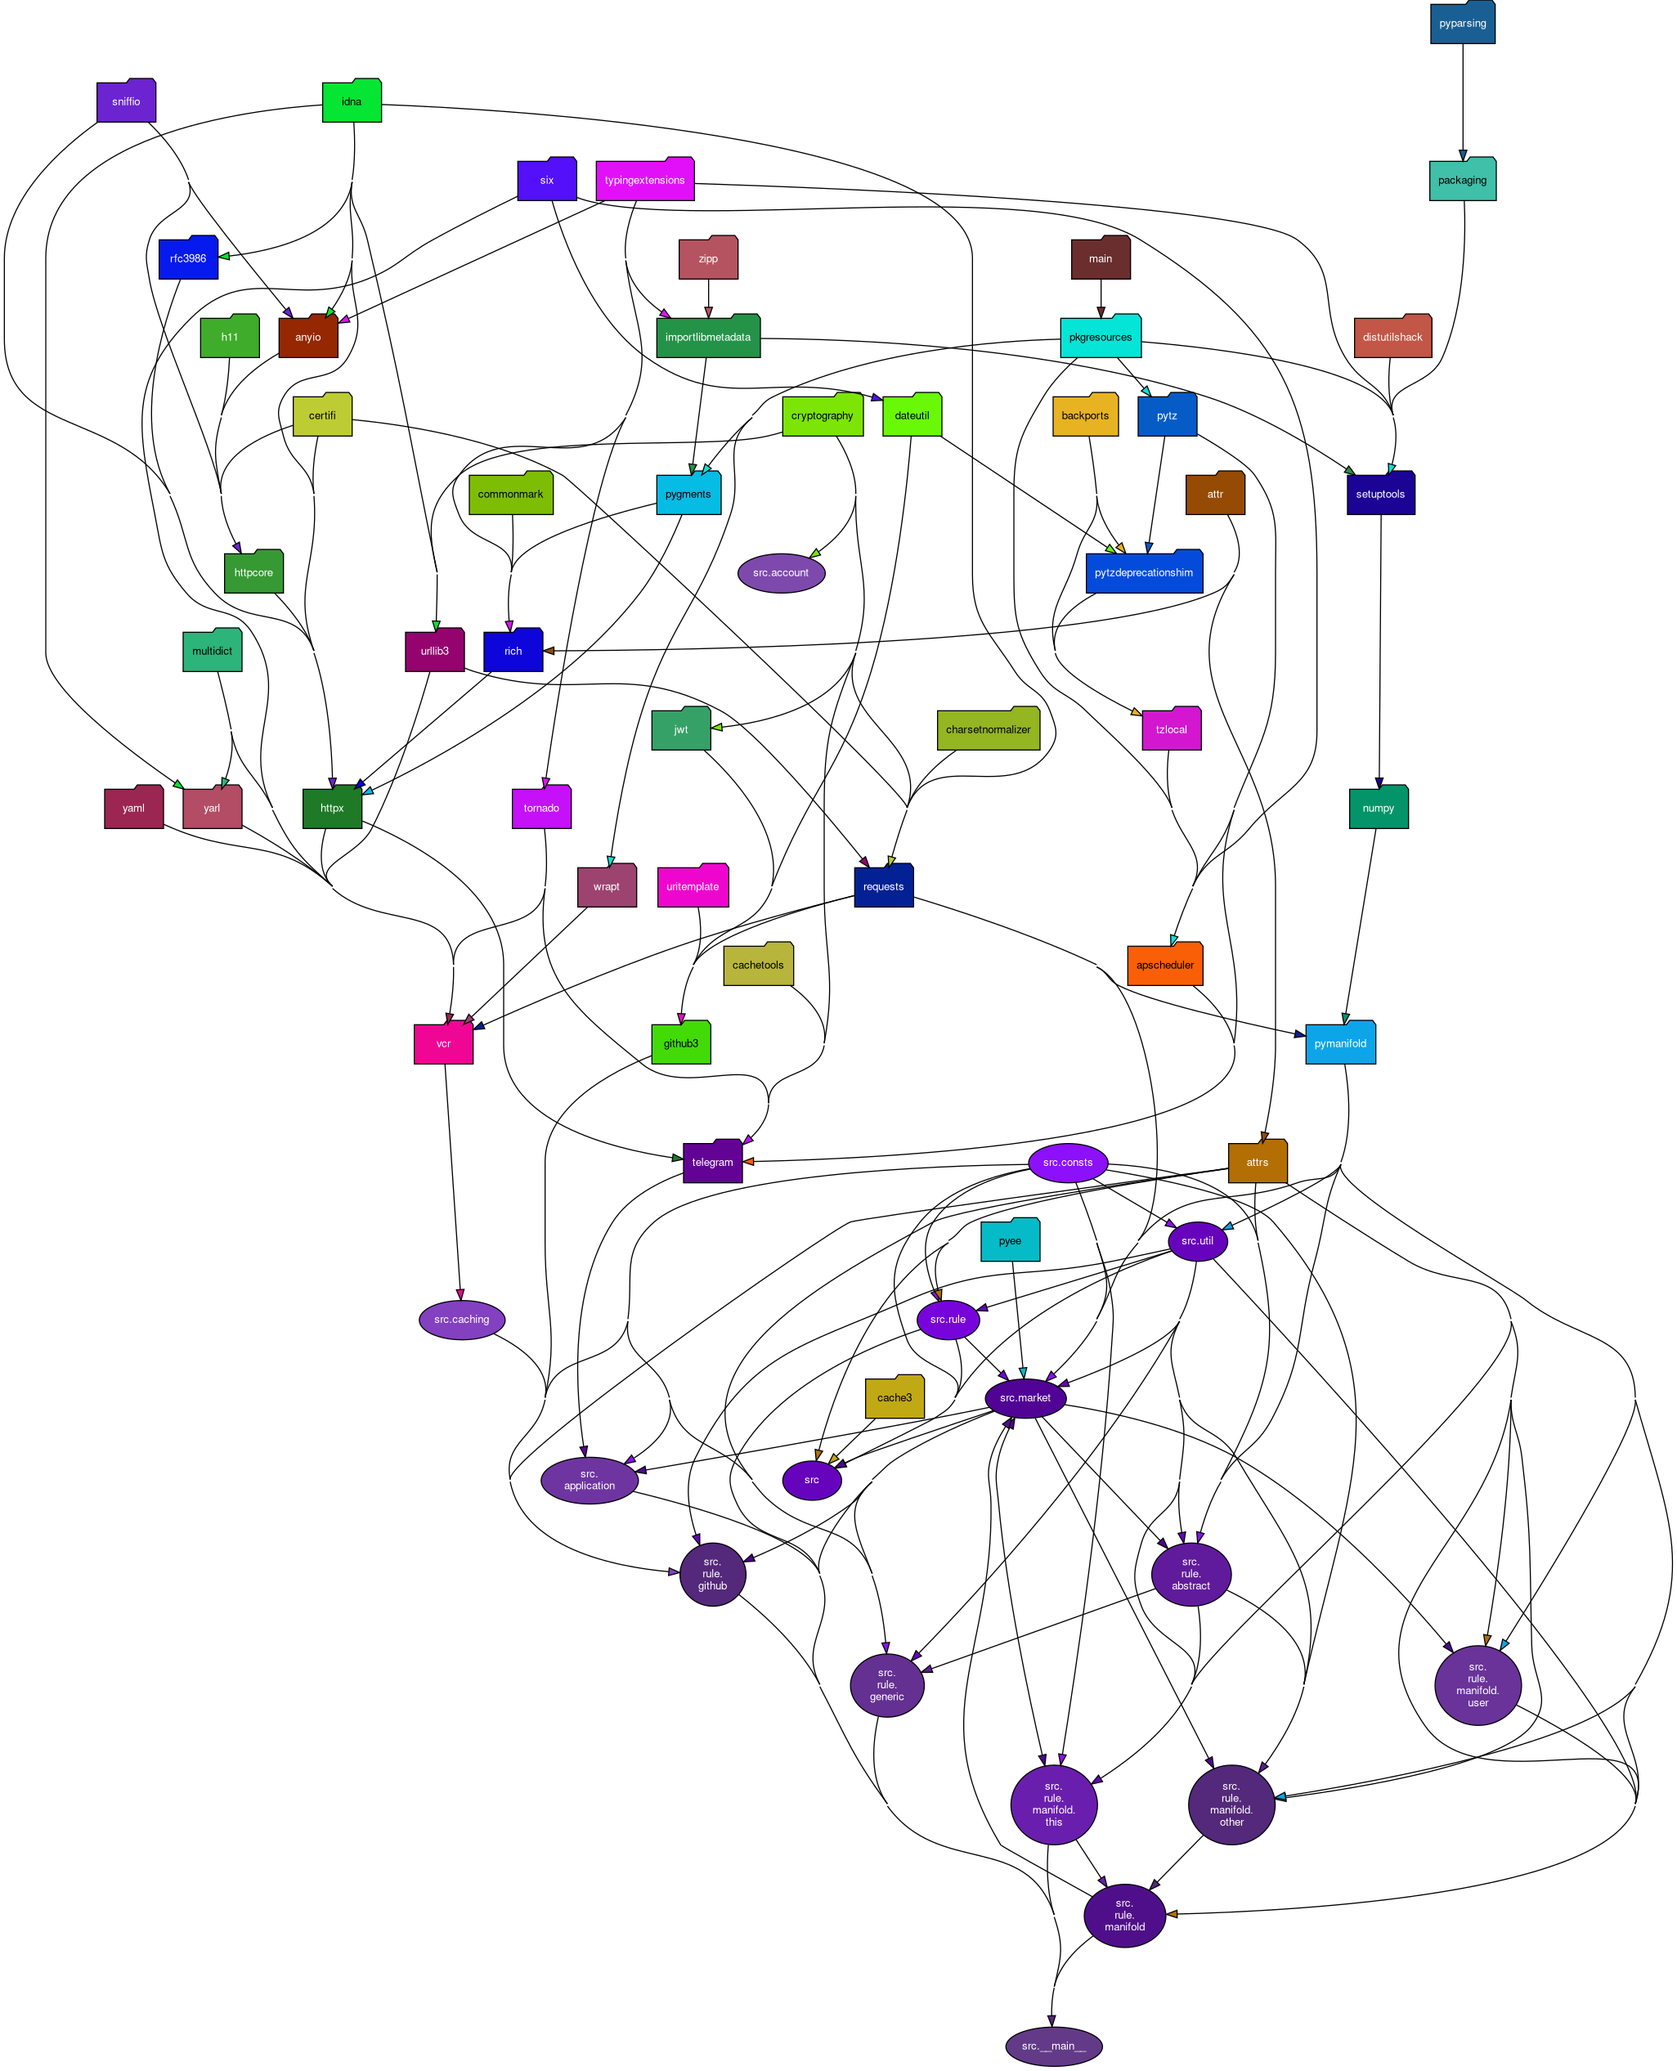
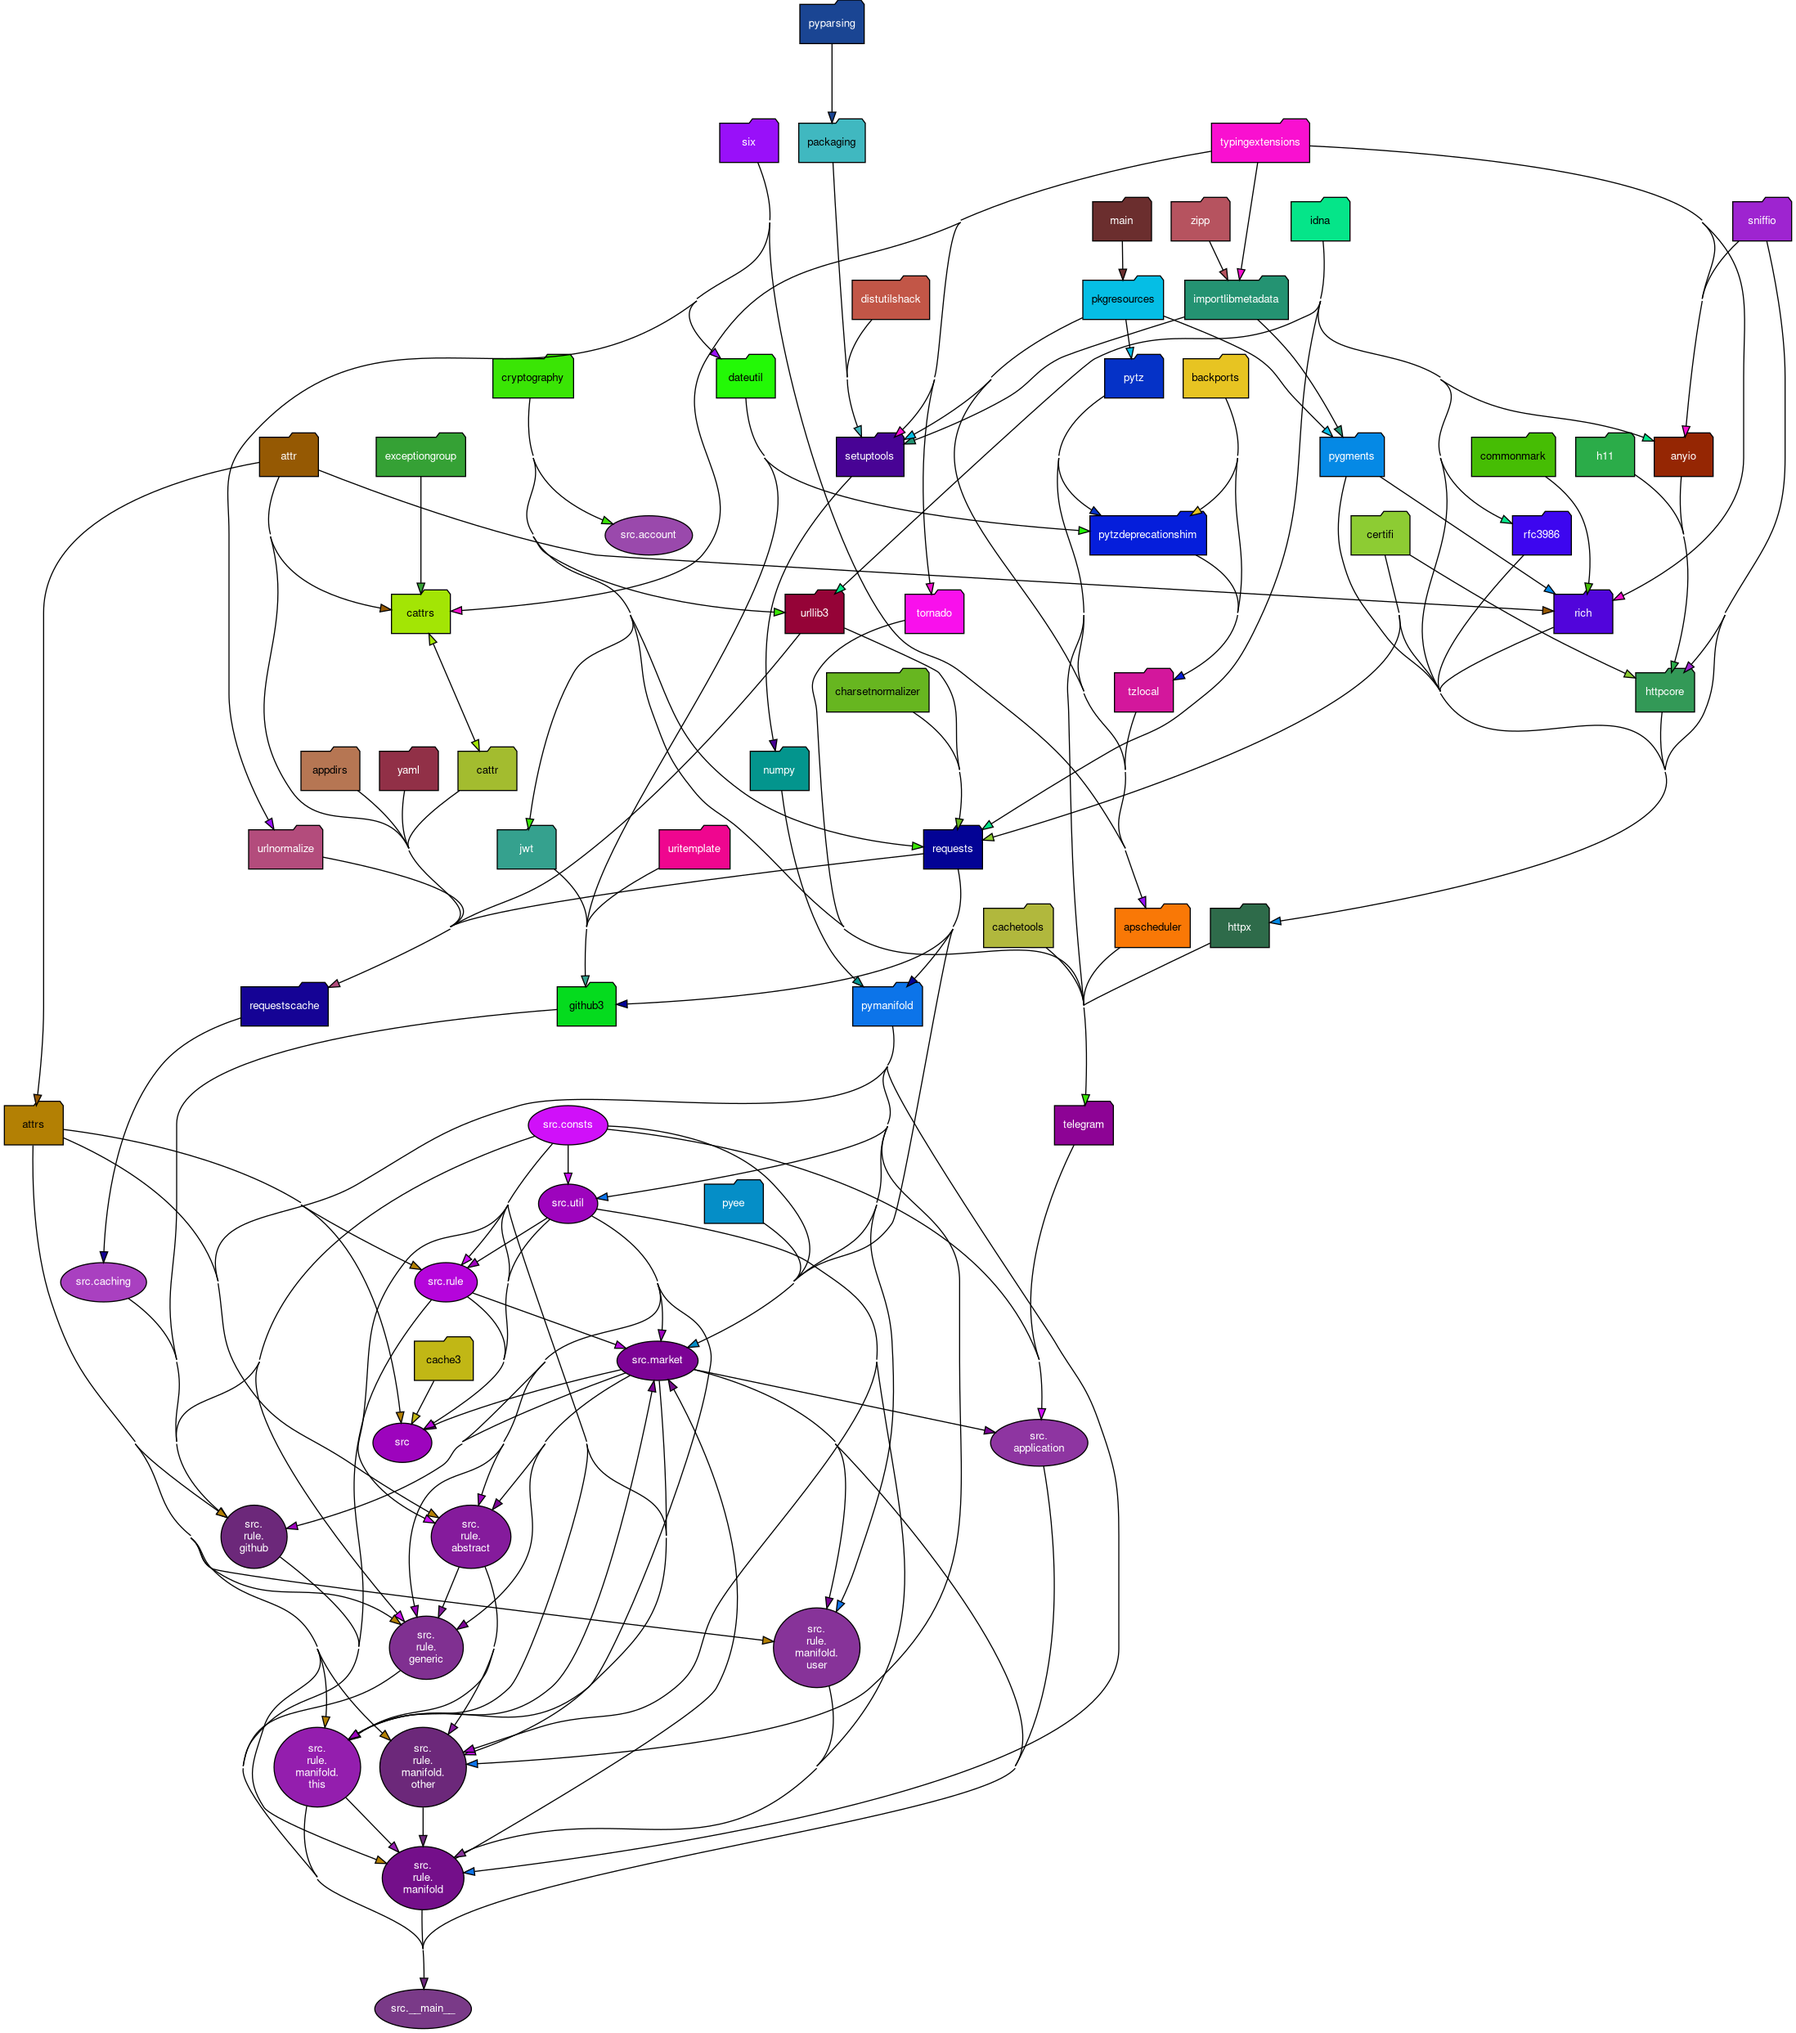
Update caching to disable in testing

diff --git a/src/caching.py b/src/caching.py
@@ -1,43 +1,33 @@
+"""Stub module which helps to manage caching and the launch of parallel network requests."""
 from __future__ import annotations
 
-from concurrent.futures import ThreadPoolExecutor
+from concurrent.futures import Future, ThreadPoolExecutor
 from os import getenv
-from pathlib import Path
-from tempfile import TemporaryDirectory
-from time import time
 from typing import TYPE_CHECKING
 
-from vcr import VCR
+import requests_cache
 
 if TYPE_CHECKING:  # pragma: no cover
-    from concurrent.futures import Future
-    from typing import Callable, TypeVar
+    from typing import Any, Callable, TypeVar
 
     T = TypeVar("T")
 
-temp_dir = TemporaryDirectory()
-vcr = VCR(
-    cassette_library_dir=temp_dir.name,
-    record_mode="new_episodes",
-    match_on=["uri", "query", "headers"],
-    filter_headers=["authorization"],
-    decode_compressed_response=True
-)
-executor = ThreadPoolExecutor(thread_name_prefix="ManifoldMarketManagerWorker_")
 CACHE = not getenv("ManifoldMarketManager_NO_CACHE")
+if CACHE:
+    requests_cache.install_cache(expire_after=360, allowable_methods=('GET', ))
+    executor = ThreadPoolExecutor(thread_name_prefix="ManifoldMarketManagerWorker_")
 
 
-def cleanup() -> None:
-    for f in Path(temp_dir.name).iterdir():
-        if f.stat().st_atime + 30 < time():
-            f.unlink()
+def parallel(func: Callable[..., T], *args: Any, **kwargs: Any) -> Future[T]:
+    """Launch a task in parallel UNLESS the ManifoldMarketManager_NO_CACHE environment variable is set.
 
-
-def parallel(func: Callable[..., T], *args, **kwargs) -> Future[T]:
-    def wrapped() -> T:
-        return func(*args, **kwargs)
-
+    I need to be able to disable the cache/parallel launching or VCR doesn't work on testing.
+    """
     if CACHE:
-        wrapped = vcr.use_cassette(wrapped)
-    executor.submit(cleanup)
-    return executor.submit(wrapped)
+        def wrapped() -> T:
+            return func(*args, **kwargs)
+
+        return executor.submit(wrapped)
+    ret: Future[T] = Future()
+    ret.set_result(func(*args, **kwargs))
+    return ret

diff --git a/src/rule/github.py b/src/rule/github.py
@@ -38,14 +38,18 @@ def login() -> GitHub:
 
 @define(slots=False)
 class GitHubIssueMixin:
+    """Mixin class to represent a GitHub issue."""
+
     owner: str
     repo: str
     number: int
 
     def f_issue(self) -> Future[Issue]:
+        """Return a Future object which resolves to the relevant Issue object."""
         return parallel(login().issue, self.owner, self.repo, self.number)
 
     def f_pr(self) -> Future[PullRequest]:
+        """Return a Future object which resolves to the relevant PullRequest object."""
         return parallel(login().pull_request, self.owner, self.repo, self.number)
 
 

diff --git a/src/__init__.py b/src/__init__.py
@@ -178,7 +178,7 @@ register_converter("Rule", loads)
 register_adapter(market.Market, dumps)
 register_converter("Market", loads)
 
-VERSION = "0.6.0.114"
+VERSION = "0.6.0.115"
 __version_info__ = tuple(int(x) for x in VERSION.split('.'))
 __all__ = [
     "__version_info__", "VERSION", "DoResolveRule", "ResolutionValueRule", "Rule", "Market", "get_client", "rule",
